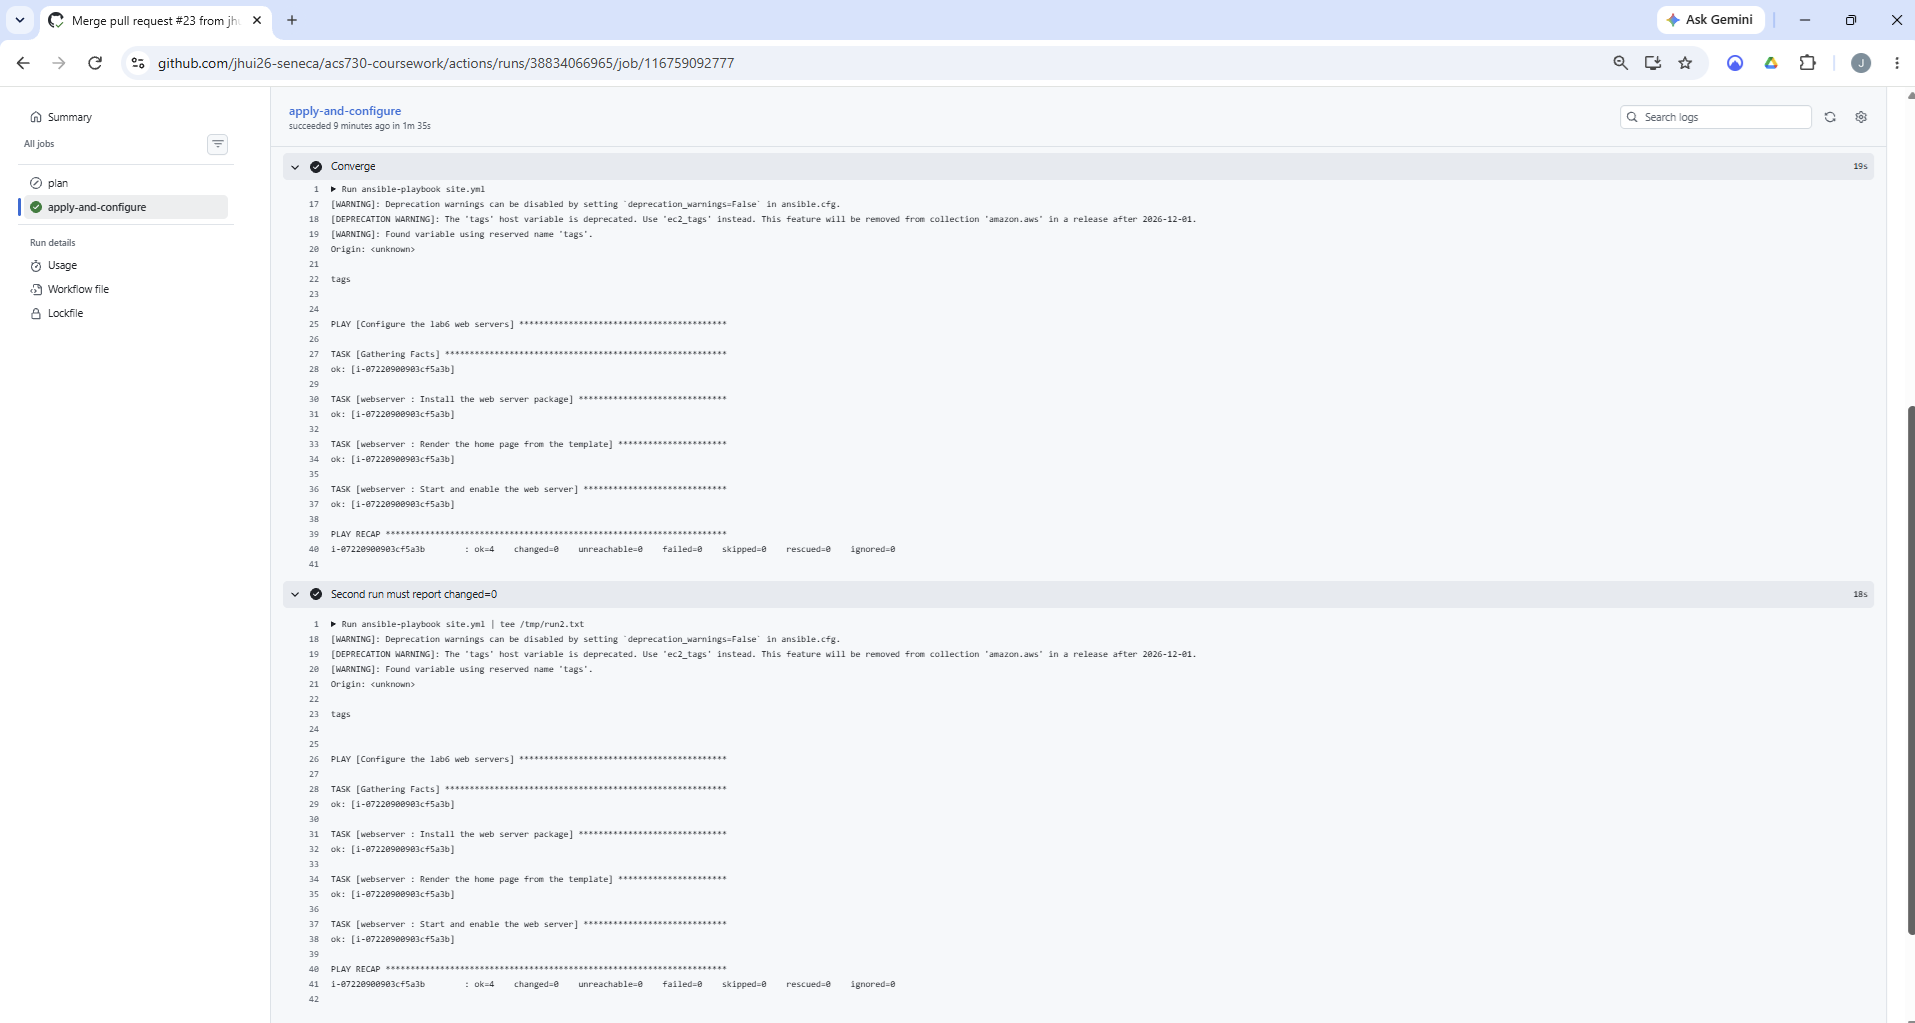
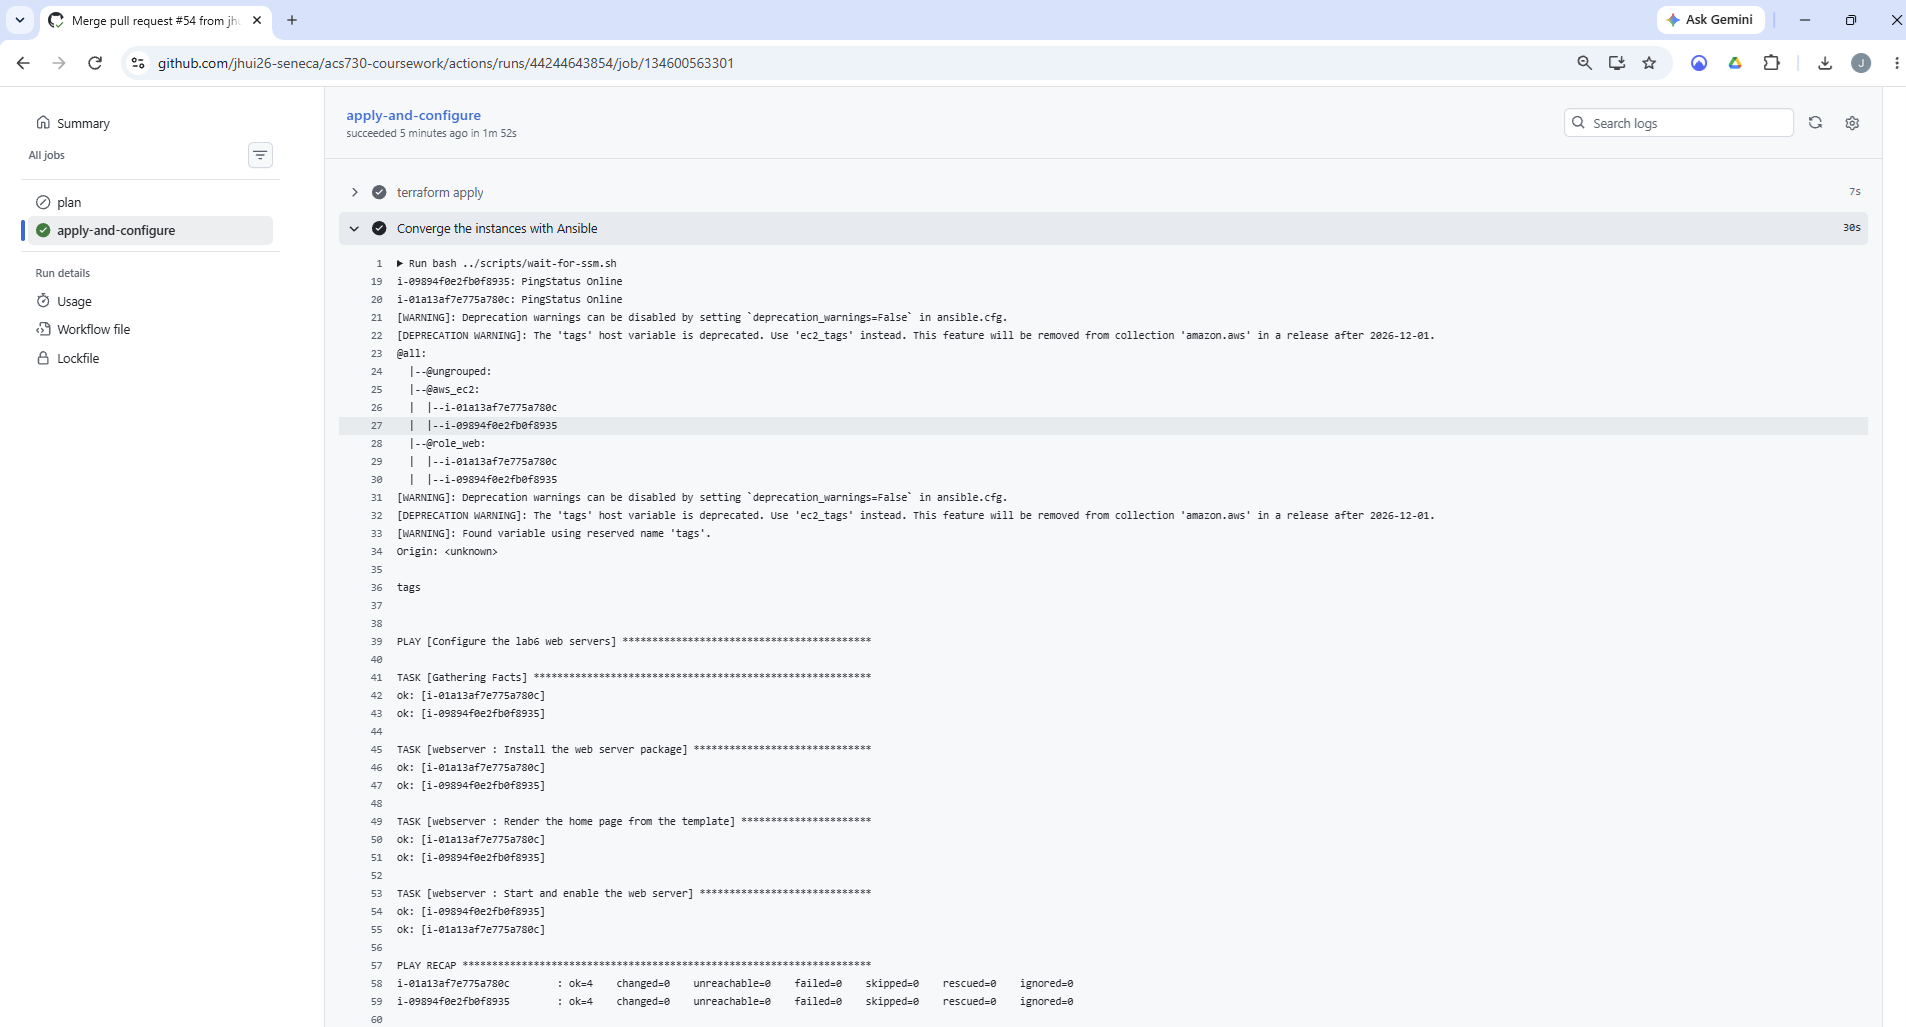
Lab 6: experiments, re-captured evidence, golden AMI from the role, README per the Nov 17 walkthrough

diff --git a/lab6/README.md b/lab6/README.md
@@ -1,25 +1,67 @@
 # Lab 6 - Ansible Configuration Management and Golden AMIs
 
-Terraform creates a tagged target in the default VPC with LabInstanceProfile and no port 22 ingress at all. Ansible finds it by tag and configures it over AWS Systems Manager, from the workstation and from GitHub Actions. Packer bakes the same web page into a golden AMI, and both approaches are timed from launch to the page being served.
+Terraform creates two tagged web servers in the default VPC with LabInstanceProfile and no port 22 ingress at all. Ansible finds them by tag and configures them over AWS Systems Manager, from the workstation and from GitHub Actions in the step straight after `terraform apply`. Packer bakes the same `webserver` role into a golden AMI, and both approaches are timed from the launch request to the page being served.
 
 ## The three answers
 
-I used Ansible over SSM (the community.aws.aws_ssm connection), because the instance's SSM agent connects outbound using LabInstanceProfile, so neither the workstation nor the GitHub runner needs an SSH key and port 22 is never opened, which removes both the stored-key and the open-port security findings. A second run reporting changed=0 proves the role describes a desired state rather than a list of actions: every task checked the server, found it already correct and changed nothing, so the playbook is safe to run repeatedly in a pipeline and will correct drift. Deregistering an AMI only deletes the image record; the EBS snapshot holding its disk stays behind and keeps billing, so teardown must delete the snapshot as well.
+I used Ansible over Session Manager (the `aws_ssm` connection), because the SSM agent on each instance dials out using LabInstanceProfile, so neither the workstation nor the GitHub runner needs a stored SSH key and port 22 is never opened; Packer reaches its build instance the same way, through an SSM port-forward with a temporary key it creates and deletes in the same run. A second run reporting changed=0 proves that every task checked the real state of the host and found it already matched what the role asks for, which is what makes the same command safe on a new instance, a converged one, and from a pipeline on every merge. Deregistering an AMI only deletes the image record: the EBS snapshot behind it is the stored data and the thing that bills, it stays behind, and once the AMI is gone `describe-images` can no longer tell you which snapshot belonged to it, so teardown reads the snapshot ID first and deletes it after.
 
 ## Boot-to-ready
 
-| Approach | Launch request to page served |
-|---|---|
-| Plain Amazon Linux 2023 + Ansible over SSM | 84 s (evidence/boot-to-ready-ansible.txt) |
-| Golden AMI baked by Packer | 24 s (evidence/boot-to-ready-golden.txt) |
+| Approach | Launch request to page served | What the time includes |
+|---|---|---|
+| Plain Amazon Linux 2023, then Ansible over SSM | 83 s (`evidence/boot-to-ready-ansible.txt`) | Launch 20 s, SSM agent Online at 21 s, then about 62 s of playbook (dnf installs httpd, template, service start) |
+| Golden AMI baked by Packer with the same role | 24 s (`evidence/boot-to-ready-golden.txt`) | Launch 20 s, then httpd is already installed and enabled, so the page is up 4 s later |
 
-The golden AMI is faster and has nothing left to fail at launch, but it is only as current as its last build; the Ansible path is slower and depends on SSM and the package mirror at boot, but every run applies the latest playbook.
+The page itself says which path built it: `Build: ansible-converge` on the converged instance, and `Build: golden-ami` on the one launched from the image, where Packer overrode `webserver_build_tag` with `--extra-vars`. The golden instance also serves `/baked.html` (HTTP 200), a static file Packer copied in after the role ran; the converged instance returns 404 for it, because the role never creates that file.
+
+In the slow path the time didn't go into Ansible's own logic. SSM registered after one second this time (on another day it can take 30 to 60 s), and most of the 62 s was dnf pulling httpd and its dependencies over the network, which happens again on every instance at every launch.
+
+A golden AMI doesn't remove that work, it moves it: the same role runs once at bake time (the Packer build took 4 min 38 s) instead of once per launch. So the image wins as soon as I launch more than a couple of instances, or launch them often, and it loses for a single instance, where I'd pay a full Packer build to save about a minute.
+
+Each approach breaks in its own way. An image is frozen at bake time: security updates released after the bake aren't in it, so it needs a rebuild schedule, and you can't see what's inside it without the build log, whereas the playbook is its own documentation. Converge-on-boot depends on the package mirrors and SSM being reachable at the moment of launch: if a mirror is down, instances boot and never become ready, and an autoscaling event at 3 a.m. is exactly when I don't want a network dependency in the boot path.
+
+My recommendation: golden AMI for these web servers, because they're launched in groups and should come up in seconds, with the playbook kept in the pipeline to catch drift on running hosts; I'd switch to converge-on-boot for a server I launch once and change often, where rebuilding an image for every change costs more than the minute it saves.
+
+One constraint worth knowing: Ansible's SSM connection copies each module through an S3 bucket, and the bucket, `ansible_aws_ssm_region` and the instances all have to be in us-east-1. Experiment 5 shows what a mismatch looks like.
+
+## Experiments
+
+### 1. A shell command instead of a module
+
+**What happened.** I added a task that runs `mkdir -p /var/www/html/logs` through `ansible.builtin.shell`. Both runs reported `changed=1` on both hosts, even though the directory already existed by the second run. With `creates: /var/www/html/logs` added, both runs reported `changed=0`.
+
+**Why.** A shell command is opaque to Ansible: it can't look inside it to know what it does, so it runs it and reports changed every time. `creates:` gives Ansible something to check first: if the path exists, it skips the command. The `file` module has that check built in, which is why the role uses modules.
+
+### 2. `state: latest` versus `state: present`
+
+**What happened.** I changed the dnf task to `state: latest` and ran it twice. Both runs reported `changed=0`. `dnf check-update` on both hosts showed no newer httpd packages that night.
+
+**Why.** `latest` means "the newest version the repository has today", so the result depends on the day: on any day Amazon publishes an httpd update, the same playbook reports changed and quietly upgrades a package mid-pipeline. `present` only means "installed", which stays true. In a pipeline that runs on every merge I want `present`, with upgrades done on purpose, for example by rebuilding the golden AMI, not as a side effect of an unrelated merge.
+
+### 3. Drift by hand versus a change in code
+
+**What happened.** Through SSM Run Command I deleted the `Build:` line from `index.html` on one host only. The next run, with `--diff`, showed the line being added back, `changed` on that host's template task and its restart handler, and `ok` on the other host; the run after that was `changed=0` on both. Then I changed `webserver_title` in `defaults/main.yml`: both hosts reported `changed=2` (template and handler).
+
+**Why.** Both cases show up as "changed" in the recap, but they're opposite situations. In the first, the server drifted away from the code, and Ansible put one host back to what the code already said. In the second, the code changed, and every host had to follow it. The handler fired in both cases only because the template task notified it, and only on the hosts where the template actually changed.
+
+### 4. The inventory shrinks
+
+**What happened.** I stopped (not terminated) one instance. `ansible-inventory --graph` then showed one host in `@role_web`, with nothing edited. With the `instance-state-name: running` filter removed, the stopped instance came back into the inventory, and the playbook failed on it with `TargetNotConnected ... is not connected` (counted as `failed=1`, not unreachable) while the running host finished `changed=0`. With the filter back and the instance started again, it rejoined and reported `changed=0`.
+
+**Why.** The aws_ec2 plugin asks the EC2 API for the host list on every run, so the inventory follows reality without anyone editing a file. The state filter is what keeps it to hosts that can actually answer; without it, EC2 still knows the stopped instance and its tags, but SSM can't open a session to it.
+
+### 5. Breaking the SSM connection two ways
+
+**What happened.** With `ansible_aws_ssm_region` set to us-west-2 (bucket still in us-east-1), the ping failed on both hosts with `TargetNotConnected ... is not connected`, not the `PermanentRedirect` bucket error I'd read about. Then I removed `iam_instance_profile` from `main.tf` and replaced one instance: it ran with no instance profile, never appeared in `aws ssm describe-instance-information` after three minutes, still appeared in the inventory, and its ping failed with the same `TargetNotConnected`. After putting the profile back and replacing it again, SSM reported the new instance Online, the first converge still failed on it, and the next run configured it (`changed=4`).
+
+**Why.** In the first case Ansible opened the session in us-west-2, where these instances don't exist, so it failed before it ever reached the bucket. In the second, the instance had no credentials to register with SSM at all. The inventory comes from EC2 tags, not SSM, so it listed the instance anyway. Neither error message names its cause: both say only "not connected", and I had to infer the wrong region from the config and the missing profile from `describe-instance-information`. The `aws_ssm` connection plugin now ships in the amazon.aws collection (`ansible-doc` lists `amazon.aws.aws_ssm`); it was previously in community.aws, the name `group_vars/role_web.yml` uses.
 
 ## Terraform (terraform/main.tf)
 
 | Creates / changes | Deletes | Notes |
 |---|---|---|
-| Instance `acs730-lab6-web` (tags Role=web, Lab=lab6; LabInstanceProfile; IMDSv2), security groups `acs730-lab6-sg` (port 80 from the VPC only) and `acs730-lab6-packer-sg` (no ingress) | Everything above, via `terraform destroy` (run by scripts/teardown.sh) | Default VPC, subnet in us-east-1a; state in `acs730-tfstate-<account>`, key `lab6/terraform.tfstate`. The SSM bucket is not in Terraform: the Academy account's service control policy denies `s3:GetBucketObjectLockConfiguration`, which the AWS provider reads after creating any bucket, so the bucket is created by `scripts/create-ssm-bucket.sh` instead. |
+| Two instances `acs730-lab6-web-0` and `-1` (`instance_count`, default 2; tags Role=web, Lab=lab6; LabInstanceProfile; IMDSv2), security groups `acs730-lab6-sg` (port 80 from the VPC only) and `acs730-lab6-packer-sg` (no ingress) | Everything above, via `terraform destroy` (run by `scripts/teardown.sh`) | Default VPC, subnet in us-east-1a; state in `acs730-tfstate-<account>`, key `lab6/terraform.tfstate`. The SSM bucket is not in Terraform: the Academy account's service control policy denies `s3:GetBucketObjectLockConfiguration`, which the AWS provider reads after creating any bucket, so `scripts/create-ssm-bucket.sh` creates it instead. |
 
 ## Ansible (ansible/)
 
@@ -27,22 +69,22 @@ The golden AMI is faster and has nothing left to fail at launch, but it is only 
 |---|---|
 | `ansible.cfg` | Points at the dynamic inventory and the roles folder |
 | `inventory/lab6.aws_ec2.yml` | amazon.aws.aws_ec2 plugin; running instances tagged Role=web and Lab=lab6; keyed_groups builds group `role_web`; no IDs or IPs in the file |
-| `group_vars/role_web.yml` | SSM connection, bucket and region (both us-east-1) |
-| `site.yml` | Applies the `webserver` role to `role_web` with become |
-| `roles/webserver/` | tasks (dnf, template, service), defaults, a restart handler, and `templates/index.html.j2` with no timestamps |
+| `group_vars/role_web.yml` | SSM connection, bucket and region (all us-east-1) |
+| `site.yml` | Applies the `webserver` role with become to `hosts: all`, so the inventory decides which machines run and Packer's build instance (in no group) is matched too |
+| `roles/webserver/` | tasks (dnf, template, service), defaults (including `webserver_build_tag`), a restart handler, and `templates/index.html.j2` with no timestamps |
 
 ## Packer (packer/)
 
 | File | Creates | Notes |
 |---|---|---|
-| `web.pkr.hcl` | AMI `acs730-lab6-golden-<timestamp>` and its snapshot; a temporary build instance and key pair that Packer removes itself | Connects through Session Manager; uses `acs730-lab6-packer-sg` so no port-22 group is ever created |
-| `files/index.html` | Nothing (the page baked into the image) | |
+| `web.pkr.hcl` | AMI `acs730-lab6-golden-<timestamp>` and its snapshot; a temporary build instance and key pair that Packer removes itself | Runs the same `../ansible/site.yml` through the ansible provisioner with `webserver_build_tag=golden-ami`; connects through Session Manager and uses `acs730-lab6-packer-sg`, so no port-22 group is ever created |
+| `files/index.html` | Nothing (copied into the image as `/var/www/html/baked.html`) | A static page decided once at bake time; the role never manages it |
 
 ## Scripts (scripts/)
 
 | Script | Creates | Deletes | Arguments | Run on |
 |---|---|---|---|---|
-| `create-ssm-bucket.sh` | S3 bucket `acs730-lab6-ssm-<account>` in us-east-1 with all public access blocked (skips creation if it exists) | Nothing | None | Workstation, once, before the first Ansible run |
+| `create-ssm-bucket.sh` | S3 bucket `acs730-lab6-ssm-<account>` in us-east-1 with all public access blocked (skips creation if it exists) | Nothing | None | Workstation, once per session, before the first Ansible run |
 | `wait-for-ssm.sh` | Nothing | Nothing | Optional instance ID; default = every running Role=web, Lab=lab6 instance | Workstation and CI |
 | `boot-to-ready.sh` | One t3.micro `acs730-lab6-b2r-<mode>` and `evidence/boot-to-ready-<mode>.txt` | That instance, when timing ends | Required: `ansible` or `golden` | Workstation |
 | `teardown.sh` | `evidence/teardown.txt` | Leftover timing instances, every `acs730-lab6-golden-*` AMI and its snapshots, everything Terraform created, and the SSM bucket with its contents | None | Workstation |
@@ -52,14 +94,14 @@ The golden AMI is faster and has nothing left to fail at launch, but it is only 
 | Event | What it does |
 |---|---|
 | Pull request touching lab6/** | Terraform fmt, validate and plan |
-| Push to main (or manual run) | Terraform apply, install Ansible + boto3 + session-manager-plugin, wait for SSM Online, inventory graph, converge, then a second run that fails the job if anything reports changed |
+| Push to main (or manual run) | Installs Ansible, boto3 and session-manager-plugin first; then `terraform init`, `terraform apply`, and in the very next step "Converge the instances with Ansible" (wait for SSM Online, inventory graph, playbook); then a second run that fails the job if anything reports changed |
 
 ## Evidence
 
-- `caller-identity.png` - workstation identity at the start
-- `inventory-graph.txt` - the tag-built `role_web` group
-- `idempotency-run1.txt`, `idempotency-run2.txt` - the second run reports changed=0
-- `pipeline-run.png` - the merge-triggered pipeline, green
-- `packer-build.txt`, `golden-ami.png` - the bake and the resulting AMI
-- `boot-to-ready-ansible.txt`, `boot-to-ready-golden.txt` - the timings
+- `caller-identity.png` - workstation identity
+- `inventory-graph.txt` - the tag-built `role_web` group with both instances
+- `idempotency-run1.txt`, `idempotency-run2.txt` - the second run reports changed=0 on both hosts
+- `pipeline-run.png` - the merge-triggered run, with "Converge the instances with Ansible" directly after "terraform apply"
+- `packer-build.txt`, `golden-ami.png` - the bake (the role's tasks run inside it) and the resulting AMI
+- `boot-to-ready-ansible.txt`, `boot-to-ready-golden.txt` - the timings, with the Build line and baked.html check
 - `teardown.txt` - everything removed, including the snapshot and the SSM bucket
